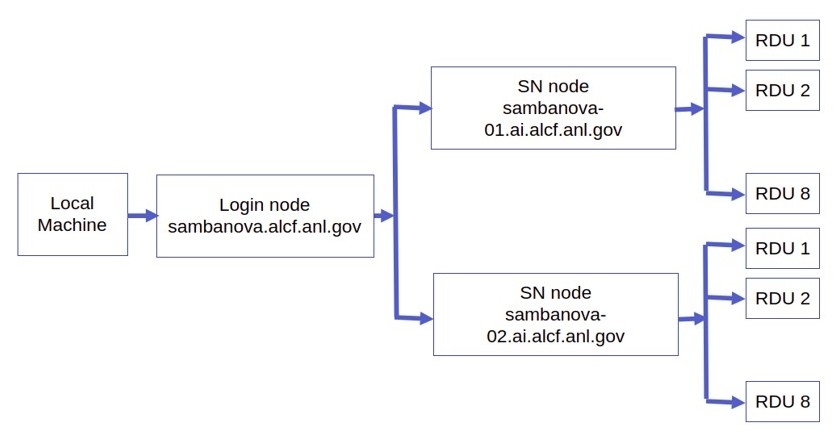
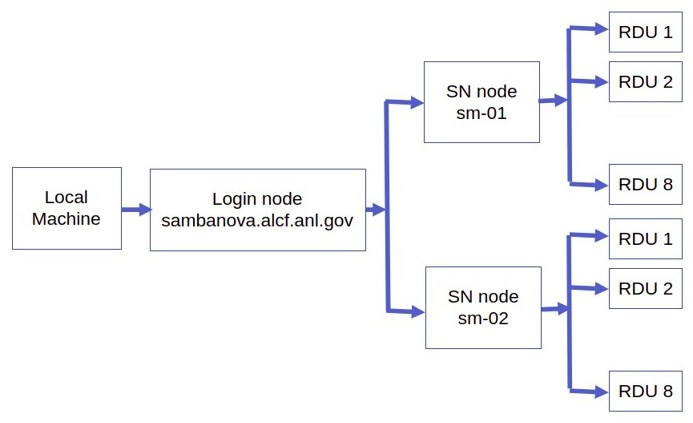
Edits per Venkat.

Changed region(s): [[0.0, 0.0, 1.0, 0.9835], [0.0303, 0.3688, 0.1515, 0.3995], [0.5152, 0.1537, 0.5455, 0.1844]]

diff --git a/docs/sambanova/Logging-into-a-SambaNova-Node.md b/docs/sambanova/Logging-into-a-SambaNova-Node.md
@@ -31,7 +31,7 @@ Note: Use the ssh "-v" option in order to debug any ssh problems.
 
 ### Log in to a SambaNova Node
 
-Once you are on the login node, the SambaNova system can be accessed using the alias “sm-01” which resolves to hostname sm-01.ai.alcf.anl.gov.  Or you may use the alias "sm-02".
+Once you are on the login node, the SambaNova system can be accessed using the alias **sm-01** or **sm-02**.
 
 ```bash
 ssh sm-01
@@ -39,10 +39,13 @@ ssh sm-01
 ssh sm-02
 ```
 
+**NOTE: sm-01 and sm-02 each have a separate scheduler.  If you have already
+ssh'd into one of those nodes, you are all set.**
+
 ### SDK setup
 
 The SambaNova system has a bash shell script to set up the required software environment.
-This sets up the SambaFlow software stack, and the associated environmental variables and activates
+This sets up the SambaFlow software stack, and the associated environmental variables and starts
 a pre-configured virtual environment.
 
 Use
@@ -55,11 +58,11 @@ ALCFUserID@sm-01:~$ source /software/sambanova/envs/sn_env.sh
 The contents of the sn_env.sh script is shown below for convenience.
 
 ```bash
-alias snpath='export PATH=$PATH:/opt/sambaflow/bin' # This is the path to SambaFlow which is the software stack that is running on SambaNova systems. This stack includes the Runtime, the compilers, and the SambaFlow Python SDK which is used to create and run models.
+alias snpath='export PATH=$PATH:/opt/sambaflow/bin' # This is the path to SambaFlow which is the software stack running on SambaNova systems. This stack includes the Runtime, the compilers, and the SambaFlow Python SDK which is used to create and run models.
 
 alias snthreads='export OMP_NUM_THREADS=1' # The OMP_NUM_THREADS environment variable sets the number of threads to use for parallel regions. The value of this environment variable must be a list of positive integer values. The values of the list set the number of threads to use for parallel regions at the corresponding nested levels. For the SambaNova system, it is usually set to 1.
 
-alias snvenv='source /opt/sambaflow/venv/bin/activate' # This activates the pre-configured virtual environment that consists of sambaflow and other built-in libraries.
+alias snvenv='source /opt/sambaflow/venv/bin/activate' # This starts the pre-configured virtual environment that consists of sambaflow and other built-in libraries.
 ```
 
 **NOTE:  SambaNova operations will fail unless the SambaNova venv is set

diff --git a/docs/sambanova/Job-Queuing-and-Submission.md b/docs/sambanova/Job-Queuing-and-Submission.md
@@ -4,7 +4,10 @@
 
 SambaNova uses Slurm for job submission and queueing. Below are some of the important commands for using Slurm. For more information refer to [Slurm Documentation](https://slurm.schedmd.com/).
 
-Note: Run the python scripts using srun or sbatch, to ensure that concurrent jobs do not interfere with each other.
+**NOTE: Run the python scripts using srun or sbatch, to ensure that concurrent jobs do not interfere with each other.**
+
+**NOTE: sm-01 and sm-02 each have a separate scheduler.  If you have already
+ssh'd into one of those nodes, you are all set.**
 
 ## srun
 

diff --git a/docs/sambanova/Example-Programs.md b/docs/sambanova/Example-Programs.md
@@ -1,6 +1,6 @@
 # Example Programs
 
-SambaNova provides examples of some well-known AI applications under the path: `/software/sambanova/apps/1.11/starters`, on the SambaNova compute node sm-01. Make a copy of this to your home directory:
+SambaNova provides examples of some well-known AI applications under the path: `/software/sambanova/apps/1.11/starters`, on both SambaNova compute nodes. Make a copy of this to your home directory:
 
 Copy starters to your personal directory structure:
 

diff --git a/docs/sambanova/Miscellaneous.md b/docs/sambanova/Miscellaneous.md
@@ -1,5 +1,20 @@
 # Miscellaneous
 
+## SDK Version
+
+To find the SDK version, run the following commands
+
+```console
+(venv) ALCFUserID@sm-01:~$ python
+Python 3.7.6 (default, Feb 18 2020, 21:28:31) 
+[GCC 9.3.0] on linux
+Type "help", "copyright", "credits" or "license" for more information.
+>>> import sambaflow
+>>> sambaflow.__version__
+'1.11.5'
+>>> 
+```
+
 ## OMP_NUM_THREADS
 
 The OMP_NUM_THREADS environment variable sets the number of threads to use for parallel regions.
